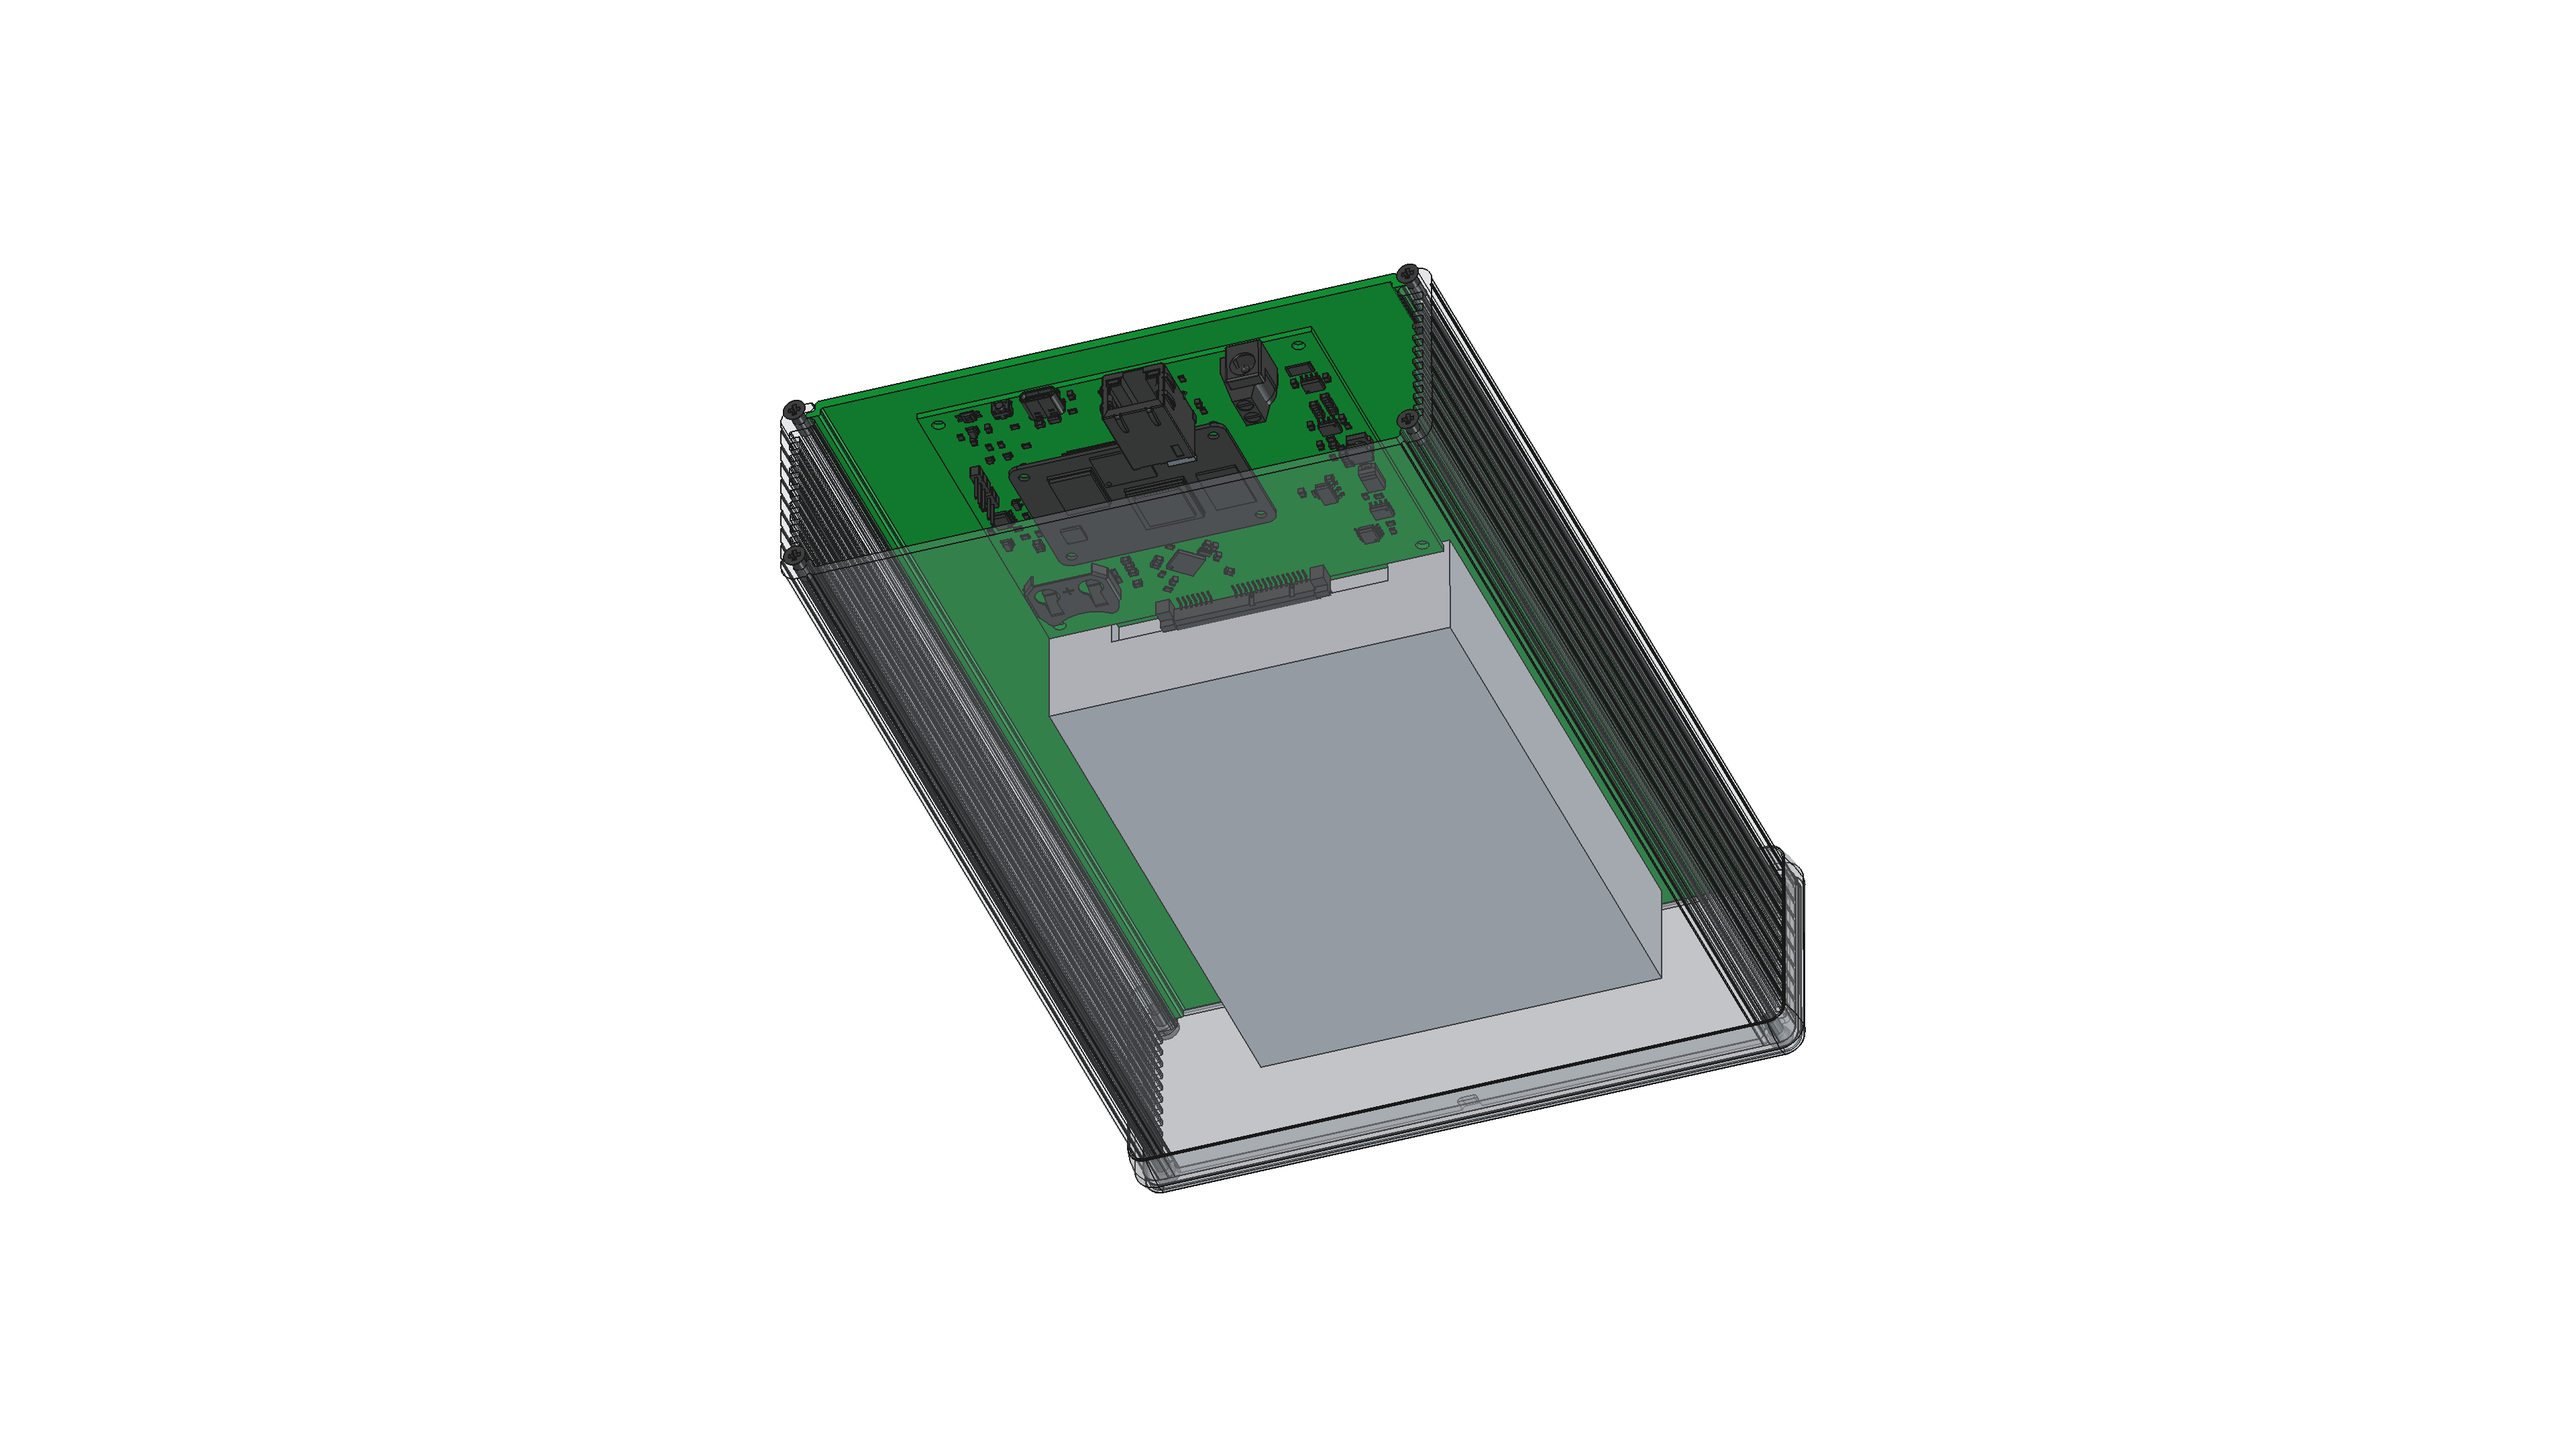
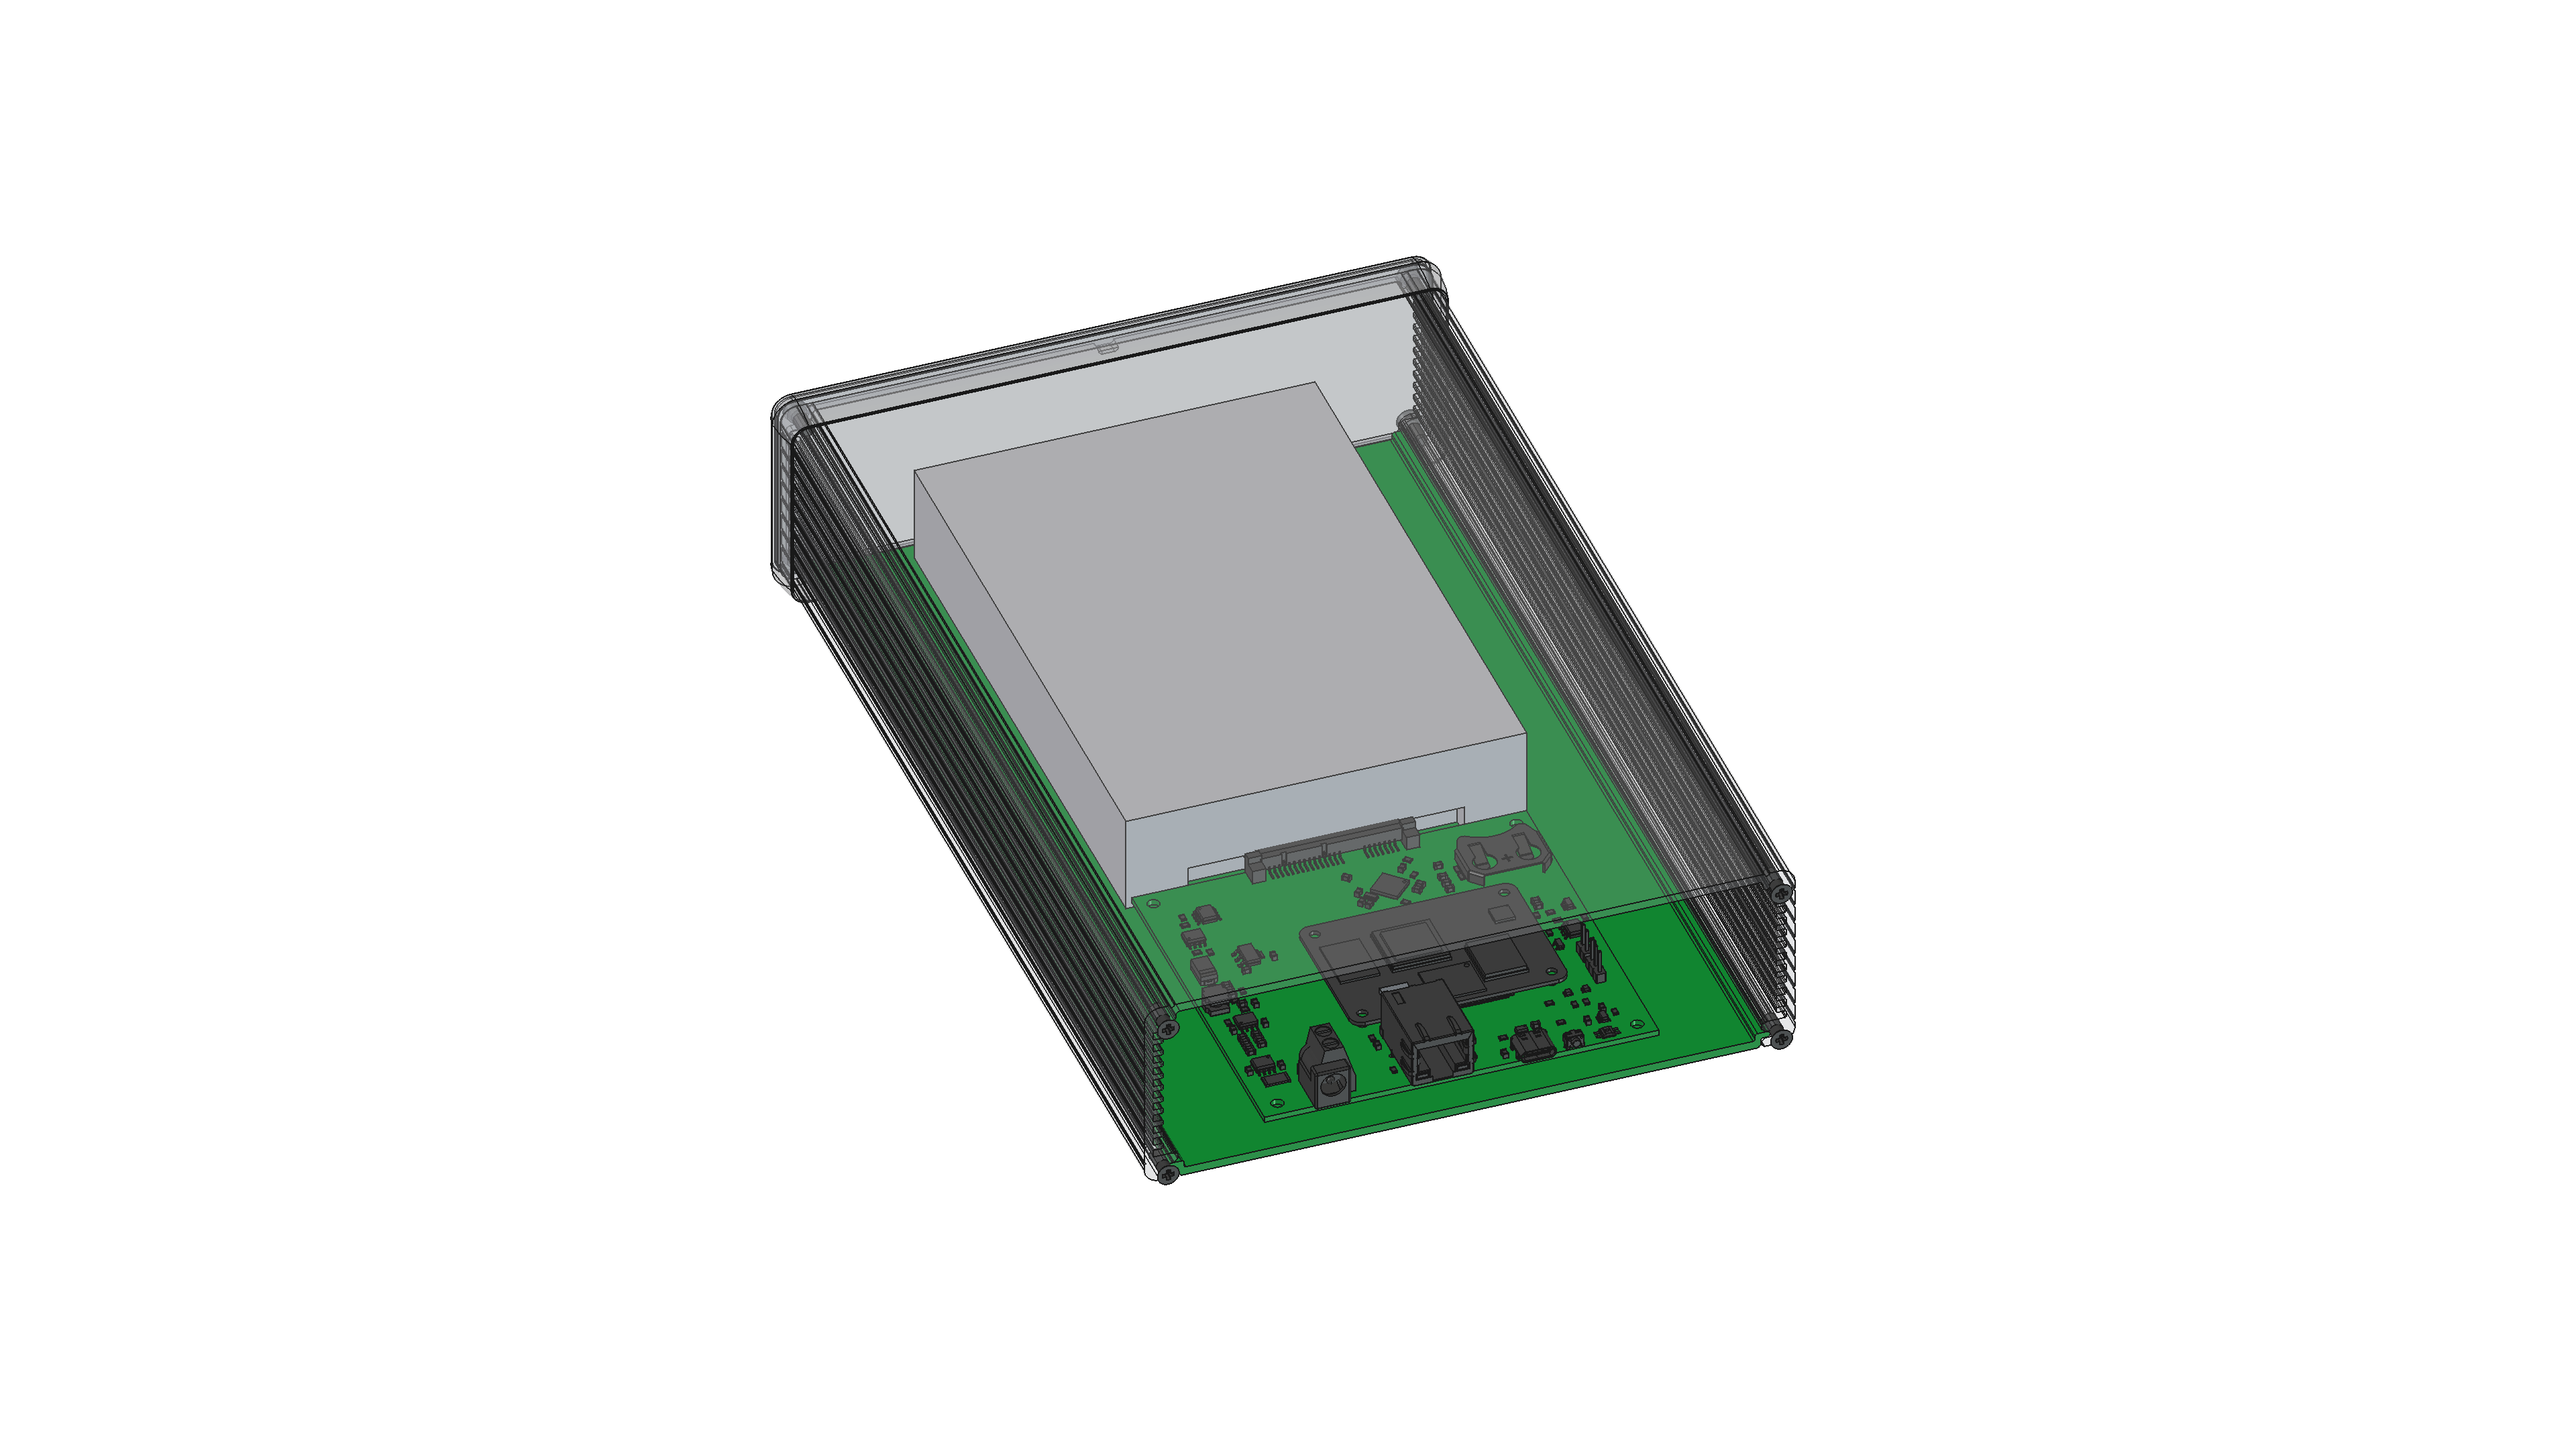
Screenshot: realistic table-top view looking down at PCB and HDD

Changed region(s): [[0.2812, 0.1551, 0.7188, 0.8375]]

diff --git a/mechanical/screenshot.py b/mechanical/screenshot.py
@@ -64,10 +64,10 @@ view = FreeCADGui.ActiveDocument.ActiveView
 from pivy import coin
 cam = view.getCameraNode()
 
-# Camera: from HDD end looking toward connectors, tilted to see PCB top
-rot = coin.SbRotation(coin.SbVec3f(1, 0, 0), 0.65)     # tilt down ~37°
-rot *= coin.SbRotation(coin.SbVec3f(0, 1, 0), 0.35)     # slight side angle
-rot *= coin.SbRotation(coin.SbVec3f(0, 0, 1), 3.14)     # face opposite direction
+# Camera: on a table, lid removed, looking down from above-rear, PCB components visible
+rot = coin.SbRotation(coin.SbVec3f(1, 0, 0), -0.65)    # look down from above
+rot *= coin.SbRotation(coin.SbVec3f(0, 1, 0), -0.35)    # slight side angle
+rot *= coin.SbRotation(coin.SbVec3f(0, 0, 1), 0.0)      # HDD at back, PCB toward viewer
 cam.orientation.setValue(rot)
 view.fitAll()
 
